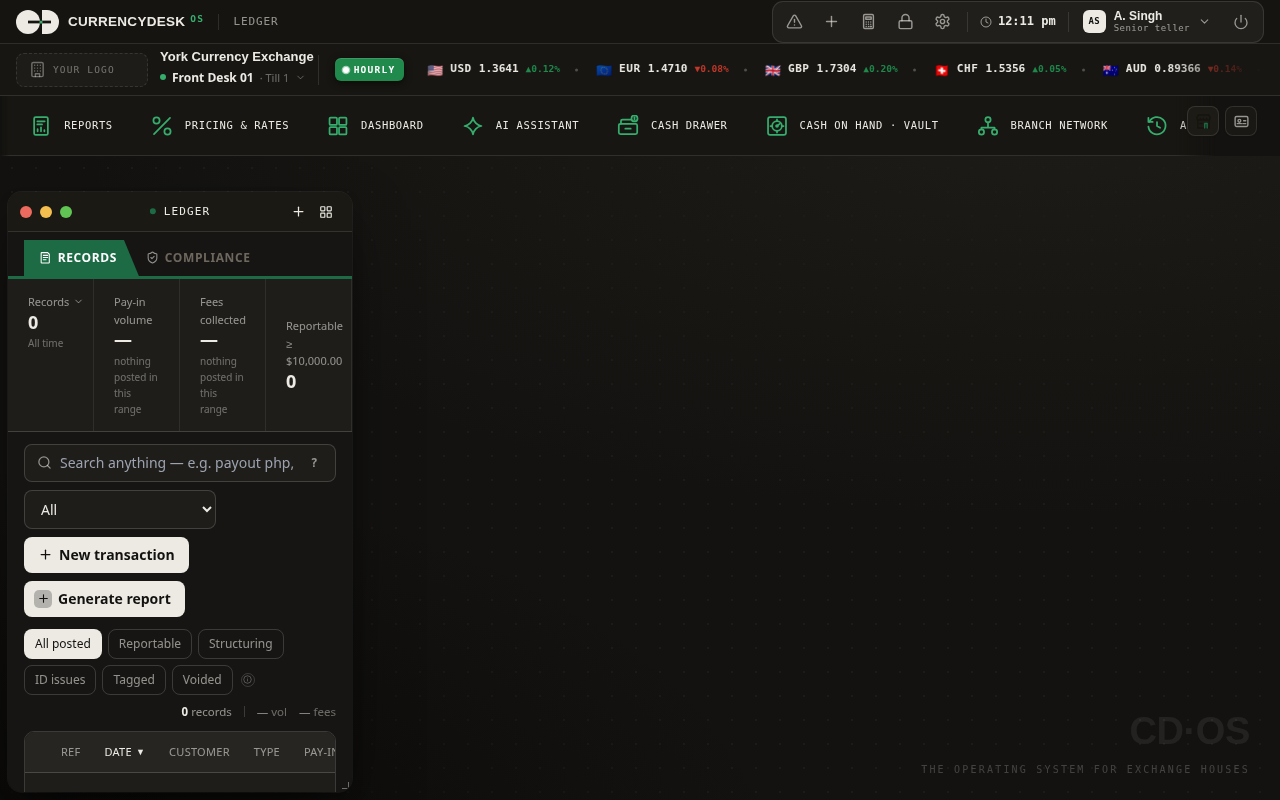
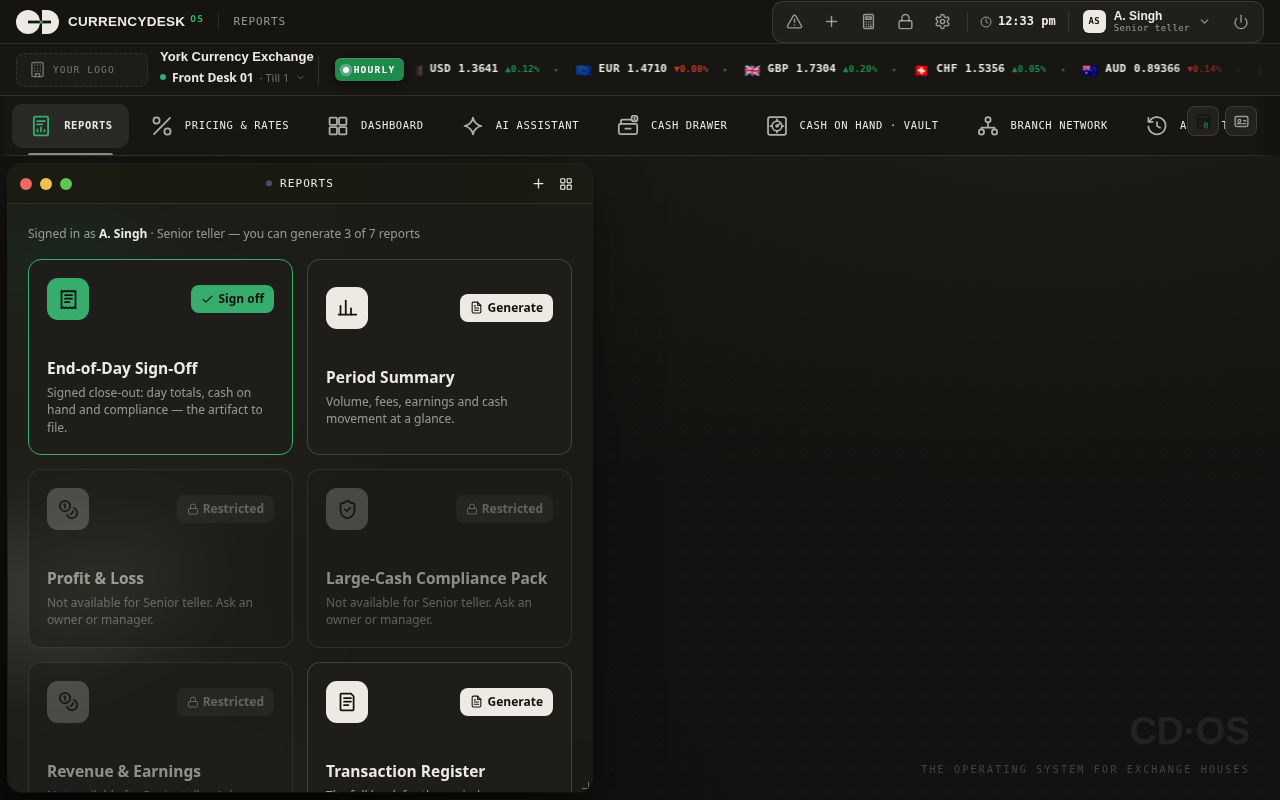
fix: mark the selected module tab and clear the rail
Dark mode keeps the green accent on the selected icon and paints the others in light ink at 72% opacity. The strip reserves about 88px at the right, with a fade, so the last tab stays left of the floating buttons.

diff --git a/tests/e2e/nav-icons.spec.ts b/tests/e2e/nav-icons.spec.ts
@@ -83,6 +83,10 @@ function contrast(a: number[], b: number[]): number {
   return (hi + 0.05) / (lo + 0.05);
 }
 
+function over(stroke: number[], ground: number[], opacity: number): number[] {
+  return stroke.map((part, i) => part * opacity + ground[i]! * (1 - opacity));
+}
+
 function pixel(img: { width: number; rgba: Uint8Array }, x: number, y: number): number[] {
   const i = (y * img.width + x) * 4;
   return [img.rgba[i]!, img.rgba[i + 1]!, img.rgba[i + 2]!];
@@ -99,6 +103,7 @@ type Reading = {
   labelPoint: { x: number; y: number };
   labelCenter: { x: number; y: number };
   hit: string;
+  iconOpacity: number;
   iconPoint: { x: number; y: number };
   height: number;
   width: number;
@@ -146,9 +151,9 @@ async function readNav(page: Page): Promise<Reading[]> {
           const owner = el && el.closest("[data-app]");
           return owner ? owner.getAttribute("data-app") || "" : "";
         })(),
-        /* The top of the tab sits above the glyph and the label,
-           so this pixel is the bar behind the icon. */
-        iconPoint: { x: box.left + box.width / 2, y: box.top + 3 },
+        iconOpacity: Number(getComputedStyle(tab.querySelector("svg") || tab).opacity) || 1,
+        /* Left padding, clear of the glyph and the label. */
+        iconPoint: { x: box.left + 8, y: box.top + box.height / 2 },
         height: box.height,
         width: box.width,
         active: tab.classList.contains("is-active"),
@@ -192,6 +197,10 @@ test("every nav tab uses one icon stroke and clears contrast", async ({ page }) 
             const tab = document.querySelector("#appbar [data-app='reports']");
             if (strip && tab instanceof HTMLElement) strip.scrollLeft = Math.max(0, tab.offsetLeft - 12);
           });
+          if (width >= 600) {
+            await page.locator("#appbar [data-app='reports']").click();
+            await expect(page.locator("#appbar [data-app='reports']")).toHaveClass(/is-active/);
+          }
         }
         const file = path.join(SHOTS, `${process.env.NAV_SHOT}-${theme}-${width}.png`);
         await page.screenshot({ path: file });
@@ -230,21 +239,24 @@ test("every nav tab uses one icon stroke and clears contrast", async ({ page }) 
       const rows = await readNav(page);
       const { sample } = await paint(page);
       const ink = "rgb(23, 20, 15)";
+      const quiet = "rgb(236, 234, 227)";
       expect(rows.map((row) => row.id)).toEqual(expect.arrayContaining(["reports", "pricing"]));
       for (const row of rows) {
         expect(row.shapes, row.id).toBeGreaterThan(0);
-        expect(row.strokes, `${theme} ${width} ${row.id}`).toEqual([theme === "dark" ? token : ink]);
+        const strokeName = theme === "light" ? ink : row.active ? token : quiet;
+        expect(row.strokes, `${theme} ${width} ${row.id}`).toEqual([strokeName]);
+        expect(row.iconOpacity, `${theme} ${width} ${row.id} opacity`).toBeCloseTo(theme === "dark" && !row.active ? 0.72 : 1, 2);
         expect(row.widths, row.id).toEqual(["1.75px"]);
         expect(row.effects, row.id).toEqual(["non-scaling-stroke"]);
         expect(row.height, row.id).toBeGreaterThanOrEqual(44);
         expect(row.width, row.id).toBeGreaterThanOrEqual(44);
-        const onScreen = row.iconPoint.x >= 24 && row.iconPoint.x <= width - 120 && row.iconPoint.y >= 8;
-        const labelOnScreen = row.labelCenter.x >= 24 && row.labelCenter.x <= width - 120 && row.labelCenter.y >= 8;
+        const onScreen = row.iconPoint.x >= 16 && row.iconPoint.x <= width - 100 && row.iconPoint.y >= 8;
+        const labelOnScreen = row.labelCenter.x >= 16 && row.labelCenter.x <= width - 100 && row.labelCenter.y >= 8;
         if (labelOnScreen) expect(row.hit, `${theme} ${width} ${row.id} hit`).toBe(row.id);
         if (onScreen) {
           const ground = sample(row.iconPoint.x, row.iconPoint.y);
           const stroke = row.strokes[0]!.match(/\d+/g)!.slice(0, 3).map(Number);
-          const iconRatio = contrast(stroke, ground);
+          const iconRatio = contrast(over(stroke, ground, row.iconOpacity), ground);
           const labelRatio = contrast(row.label, ground);
           expect(iconRatio, `${theme} ${width} ${row.id} icon`).toBeGreaterThanOrEqual(3);
           expect(labelRatio, `${theme} ${width} ${row.id} label`).toBeGreaterThanOrEqual(4.5);
@@ -266,6 +278,22 @@ test("every nav tab uses one icon stroke and clears contrast", async ({ page }) 
       const pricing = rows.find((row) => row.id === "pricing");
       expect(reports?.shapes).toBeGreaterThanOrEqual(4);
       expect(pricing?.shapes).toBeGreaterThanOrEqual(3);
+      await page.evaluate(() => {
+        const strip = document.getElementById("appbar");
+        if (strip) strip.scrollLeft = strip.scrollWidth;
+      });
+      const end = await page.evaluate(() => {
+        const tabs = [...document.querySelectorAll("#appbar .app-btn")];
+        const last = tabs[tabs.length - 1];
+        const rail = document.querySelector(".edge-rail .rail-trio");
+        return {
+          id: last ? last.getAttribute("data-app") : "",
+          tabRight: last ? last.getBoundingClientRect().right : 0,
+          buttonLeft: rail ? rail.getBoundingClientRect().left : 0,
+        };
+      });
+      expect(end.tabRight, `${theme} ${width} ${end.id} clears the rail`).toBeLessThan(end.buttonLeft);
+      seen.push(`${theme} ${width} end ${end.id} tab ${end.tabRight.toFixed(0)} rail ${end.buttonLeft.toFixed(0)}`);
     }
   }
   console.log(seen.join("\n"));

diff --git a/os-src/york-os.css b/os-src/york-os.css
@@ -577,7 +577,7 @@ button { font-family: inherit; }
   background: rgba(255,255,255,0.375);
   -webkit-backdrop-filter: var(--blur); backdrop-filter: var(--blur);
   border-bottom: 1px solid var(--hair);
-  padding: 0 8px; padding-right: 98px;
+  padding: 0 8px; padding-right: 88px;
   z-index: 350;
   overflow-x: auto; overflow-y: hidden;
   scroll-behavior: auto; overscroll-behavior-x: contain;
@@ -585,8 +585,8 @@ button { font-family: inherit; }
 /* ticker-like edge fade — only when browsing (not while editing, so the red
    remove notches stay fully visible) */
 #appbar:not(.editing) {
-  -webkit-mask-image: linear-gradient(90deg, transparent 0, #000 10px, #000 calc(100% - 104px), transparent calc(100% - 64px));
-  mask-image: linear-gradient(90deg, transparent 0, #000 10px, #000 calc(100% - 104px), transparent calc(100% - 64px));
+  -webkit-mask-image: linear-gradient(90deg, transparent 0, #000 10px, #000 calc(100% - 28px), transparent 100%);
+  mask-image: linear-gradient(90deg, transparent 0, #000 10px, #000 calc(100% - 28px), transparent 100%);
 }
 .app-btn {
   display: flex; align-items: center; gap: 10px;
@@ -634,8 +634,11 @@ button { font-family: inherit; }
 /* One stroke for every module tab. The artwork keeps its own ink
    on window icons. On this strip the whole glyph is one weight,
    so Reports stays a document and Pricing stays a percent sign.
-   Dark mode uses the green accent. A selected tab is bold and
-   has a bar, and the hit area is at least 44px. */
+   In dark mode the selected icon is the green accent and the
+   others are the light ink at 72% opacity. A selected tab is
+   bold and has a bar, and the hit area is at least 44px.
+   The right padding and the end gap keep the last tab clear
+   of the floating store and ID buttons. */
 #appbar .app-btn {
   flex-shrink: 0;
   min-width: 44px;
@@ -653,7 +656,11 @@ button { font-family: inherit; }
 }
 #appbar .app-btn.is-active::after { height: 3px; background: #17140F; }
 html[data-cdtheme="dark"] #appbar .app-btn .ai svg,
-html[data-cdtheme="dark"] #appbar .app-btn .ai svg * { stroke: var(--cd-green); }
+html[data-cdtheme="dark"] #appbar .app-btn .ai svg * { stroke: #eceae3; }
+html[data-cdtheme="dark"] #appbar .app-btn .ai svg { opacity: 0.72; }
+html[data-cdtheme="dark"] #appbar .app-btn.is-active .ai svg,
+html[data-cdtheme="dark"] #appbar .app-btn.is-active .ai svg * { stroke: var(--cd-green); }
+html[data-cdtheme="dark"] #appbar .app-btn.is-active .ai svg { opacity: 1; }
 #appbar .app-btn .al { transition: none; }
 html[data-cdtheme="dark"] #appbar .app-btn .al,
 html[data-cdtheme="dark"] #appbar .app-btn.is-active .al { color: #eceae3; }
@@ -661,7 +668,7 @@ html[data-cdtheme="dark"] #appbar .app-btn.is-active::after { background: var(--
 html[data-cdtheme="dark"] #appbar .app-btn.open::after { background: rgba(236, 234, 227, 0.55); }
 .app-btn.open.min { background: none; }
 .app-btn.open.min::after { background: var(--accent); }
-.appbar-spacer { flex: 1; min-width: 8px; }
+.appbar-spacer { flex: 1; min-width: 88px; }
 /* ============================================================
    FOLDER TABS — in-app tab bars styled as manila file-folder tabs.
    Active tab is a filled folder tab connected to the sheet by the coloured

diff --git a/docs/PROJECT_STATE.md b/docs/PROJECT_STATE.md
@@ -72,7 +72,7 @@ Full map, routes and build commands: `docs/REPOSITORY_MAP.md`.
 
 ## Current active work
 
-- **The module strip uses one icon stroke.** Dark mode paints every tab icon with the green accent (`--cd-green`, `#36ad6d`), including Reports and Pricing. Those two had kept only the green part of a two-tone drawing, so Reports read as a short tick and Pricing as a slash. Light mode uses one ink stroke, `#17140F`. A selected tab is bold and has a 3px bar. Each tab is at least 44px tall.
+- **The module strip uses one icon stroke.** In dark mode the selected tab's icon is the green accent (`--cd-green`, `#36ad6d`) and the other icons are `#eceae3` at 72% opacity. Reports and Pricing had kept only the green part of a two-tone drawing, so Reports read as a short tick and Pricing as a slash. Light mode uses one ink stroke, `#17140F`. A selected tab is bold and has a 3px bar. Each tab is at least 44px tall. The strip keeps about 88px clear at the right so the last tab, scrolled to the end, sits fully left of the floating store and ID buttons.
 
 - **Posting a quote returns the quote connection before the deal checks one out.** The quote check commits first. The deal is still its own serializable transaction: frozen terms, the idempotency row, and the journal commit together, and a replay of that post returns the same deal. The quote connection is back in the pool before that transaction starts, so a full pool of posts no longer waits forever for a second connection. A single post after that burst gets a connection.
 
